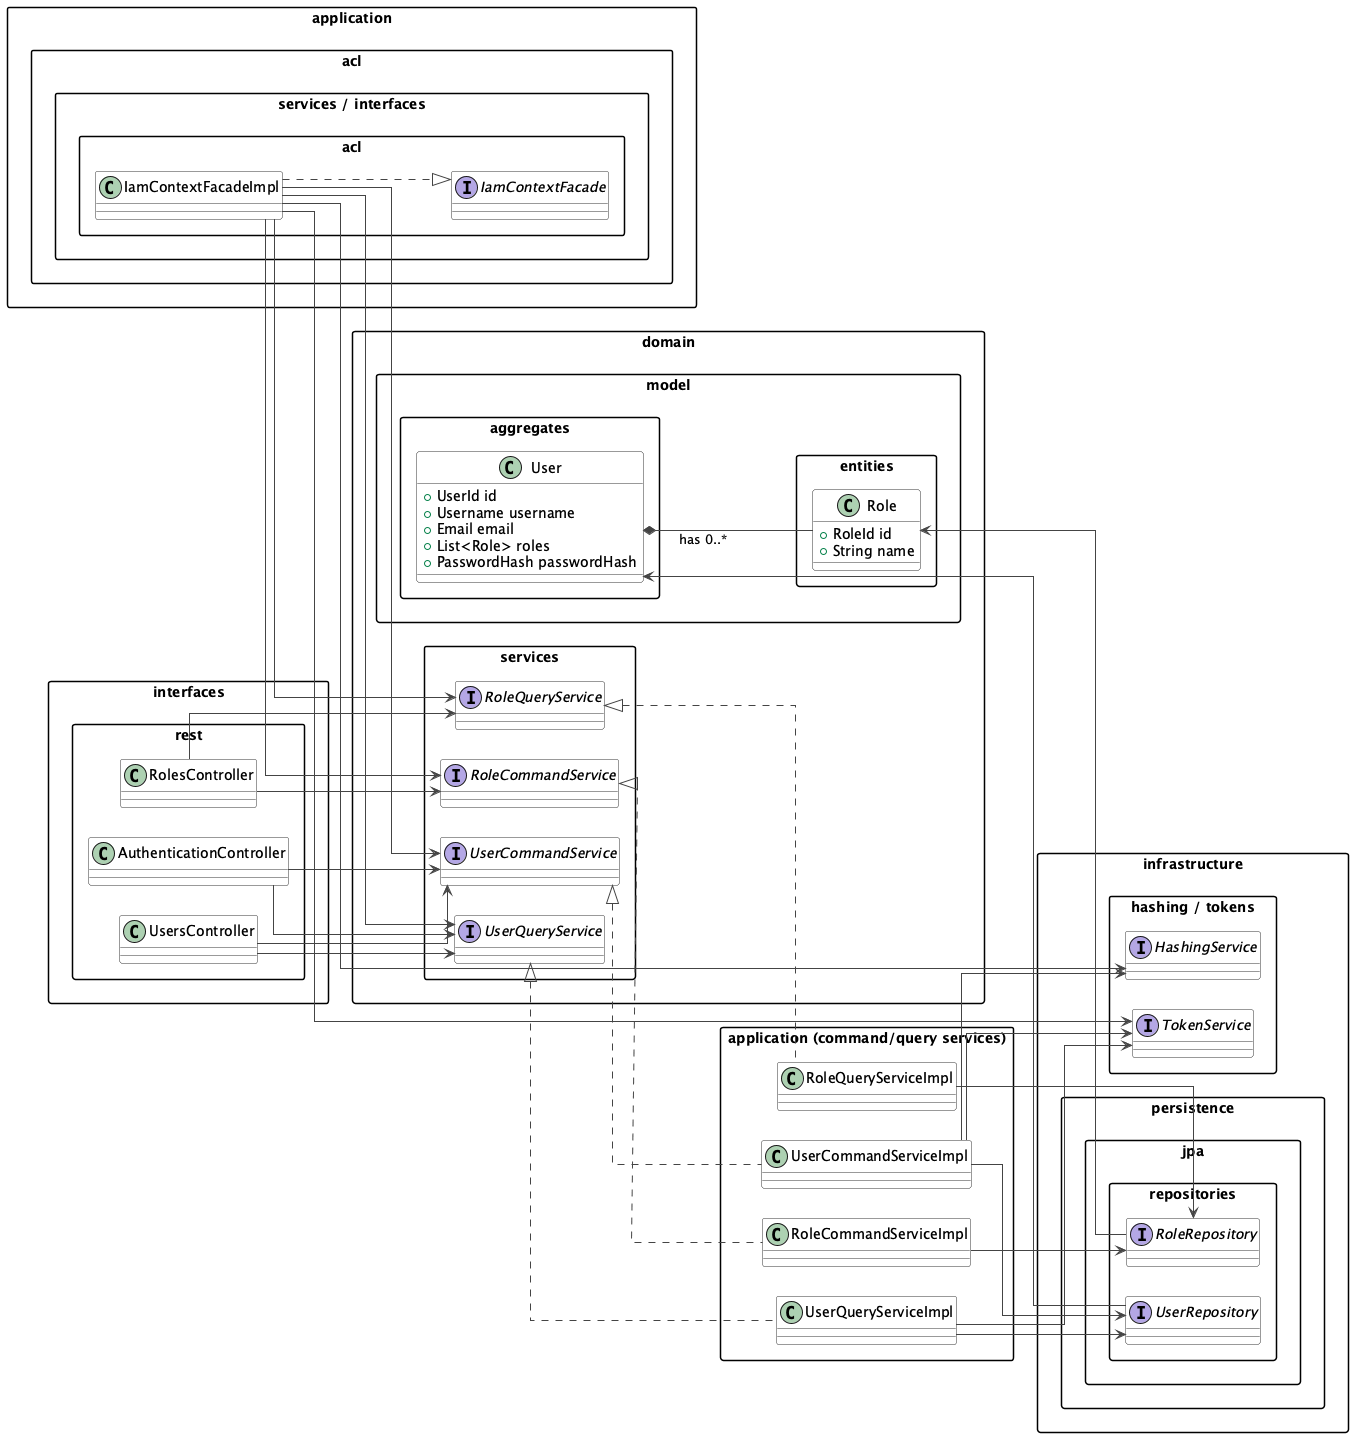
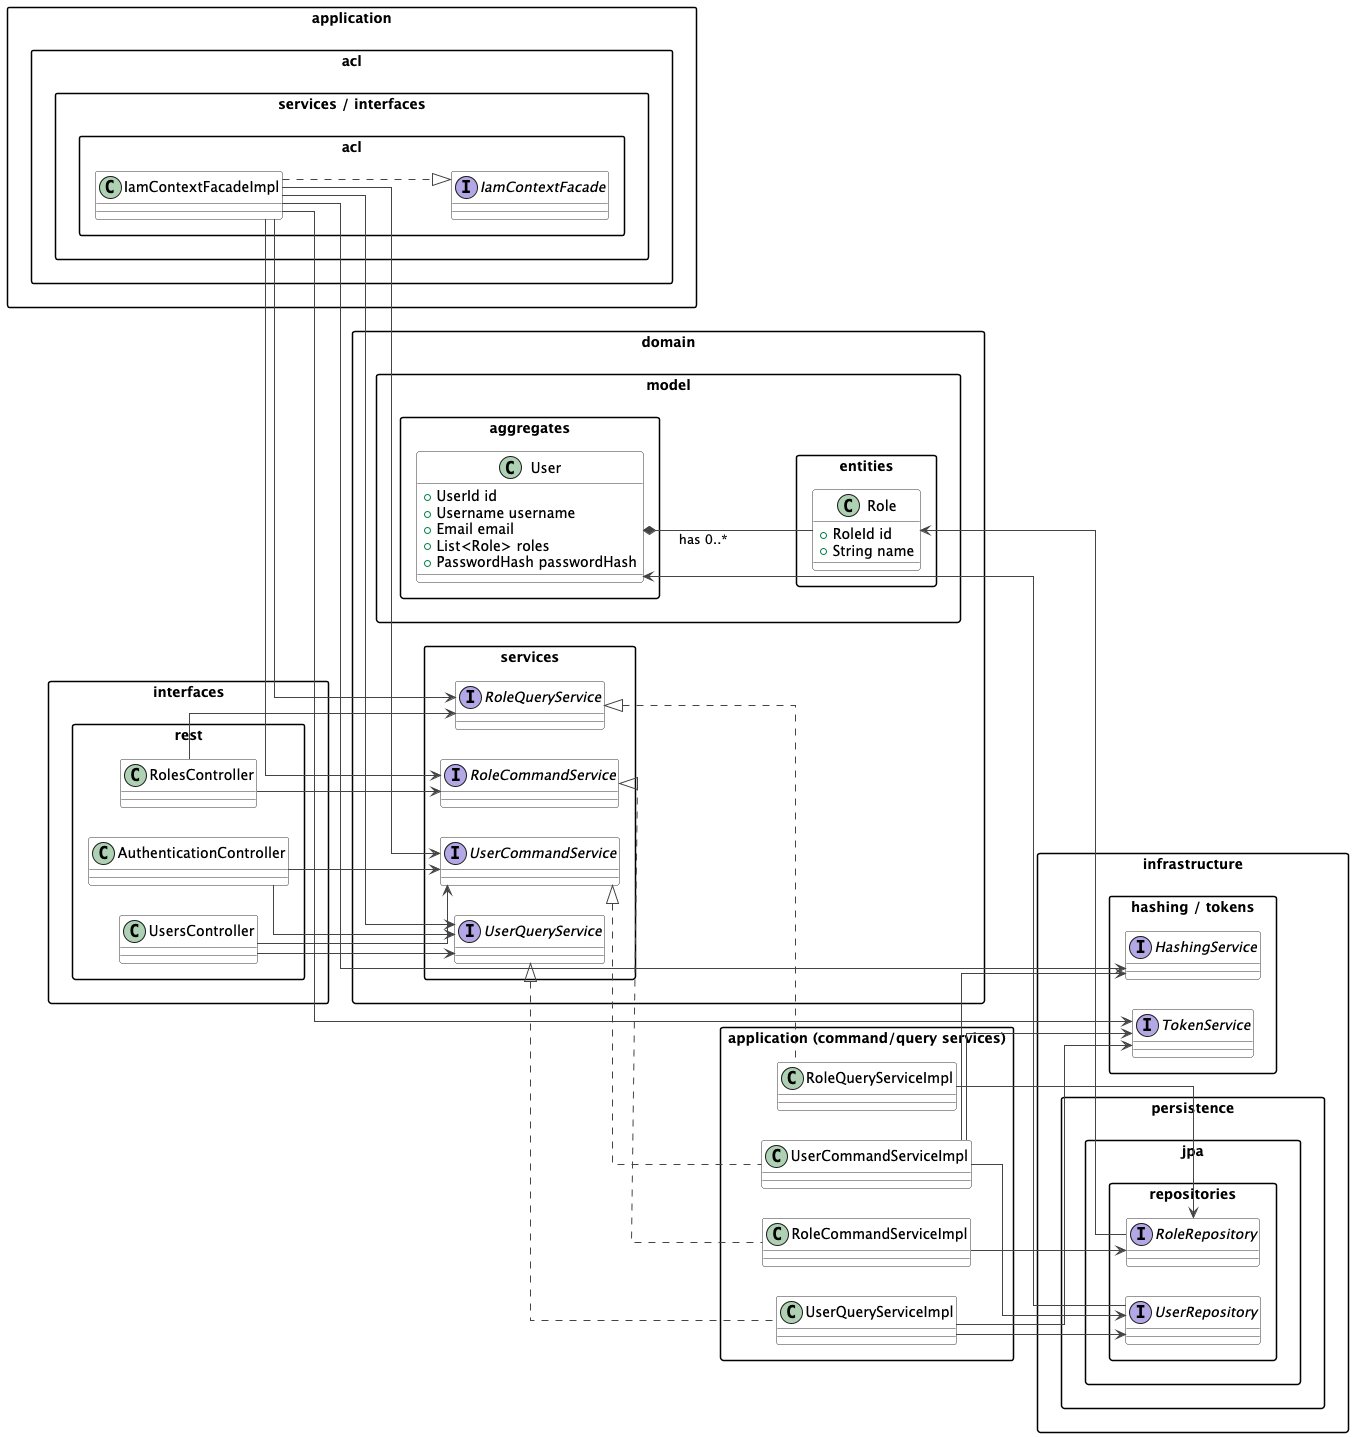
docs(chapter-IV): update IAM backend diagram link to local asset in Chapter IV

Changed region(s): [[0.0, 0.0, 1.0, 1.0]]

diff --git a/docs/chapter-IV.md b/docs/chapter-IV.md
@@ -1220,7 +1220,7 @@ Los diagramas de nivel de código ofrecen una vista detallada de las estructuras
 
 El diagrama de clases de la capa de dominio representa las entidades, objetos de valor, agregados e interfaces que conforman el modelo del negocio de contexto delimitado. Muestra las relaciones de composición, herencia y dependencia entre los elementos del dominio.
 
-![iam back](https://www.plantuml.com/plantuml/proxy?src=https://raw.githubusercontent.com/MetaSoft-IOT-2610/veyra-backend/refs/heads/feature/docs/docs/diagrams/iam/iam-backend-diagram.puml)
+![iam back](../assets/img/chapter-IV/iam-backend-diagram.png)
 
 ##### 4.2.7.6.2. Bounded Context Database Design Diagram
 
